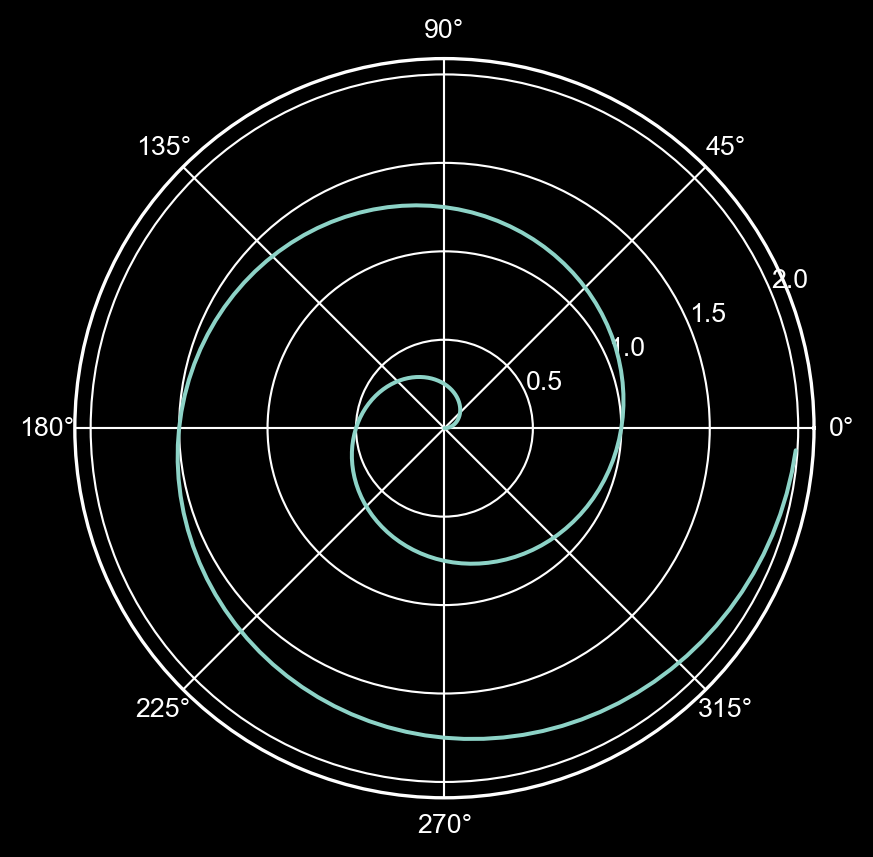
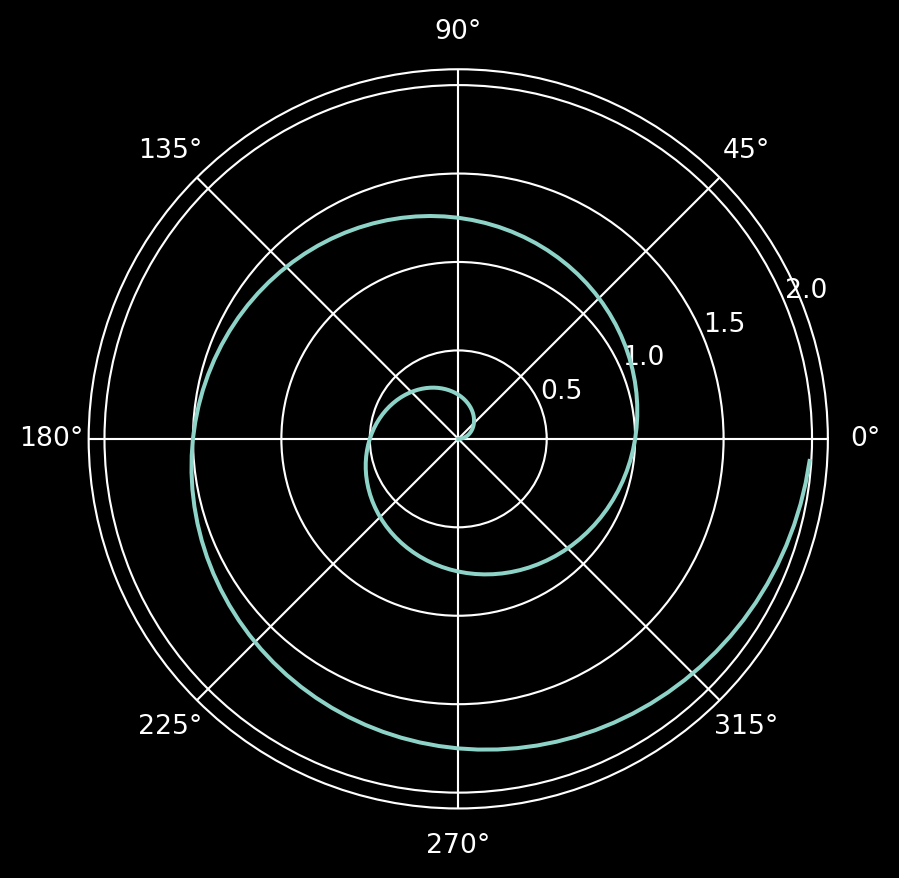
fix

diff --git a/docs/main_v2-0.html b/docs/main_v2-0.html
@@ -811,13 +811,13 @@
 <div class="fragment">
 <div id="cell-fig-polar" class="cell" data-execution_count="1">
 <div class="cell-output cell-output-display">
-<div id="fig-polar" class="quarto-figure quarto-figure-center" height="429" width="437">
+<div id="fig-polar" class="quarto-figure quarto-figure-center" height="439" width="450">
 <figure class="quarto-float quarto-float-fig">
 <figcaption class="figure quarto-float-caption quarto-float-fig" id="fig-polar-caption-0ceaefa1-69ba-4598-a22c-09a6ac19f8ca">
 Figure&nbsp;1: A line plot on a polar axis
 </figcaption>
 <div aria-describedby="fig-polar-caption-0ceaefa1-69ba-4598-a22c-09a6ac19f8ca">
-<img data-src="main_v2-0_files/figure-revealjs/fig-polar-output-1.png" width="437" height="429">
+<img data-src="main_v2-0_files/figure-revealjs/fig-polar-output-1.png" width="450" height="439">
 </div>
 </figure>
 </div>

diff --git a/docs/index.html b/docs/index.html
@@ -1,7 +1,7 @@
 <html xmlns="http://www.w3.org/1999/xhtml">    
   <head>      
     <title>Redirect to main.html</title>      
-    <meta http-equiv="refresh" content="0;URL='main.html'" />    
+    <meta http-equiv="refresh" content="0;URL='main_v2-0.html'" />    
   </head>    
   <body> 
   </body>  
